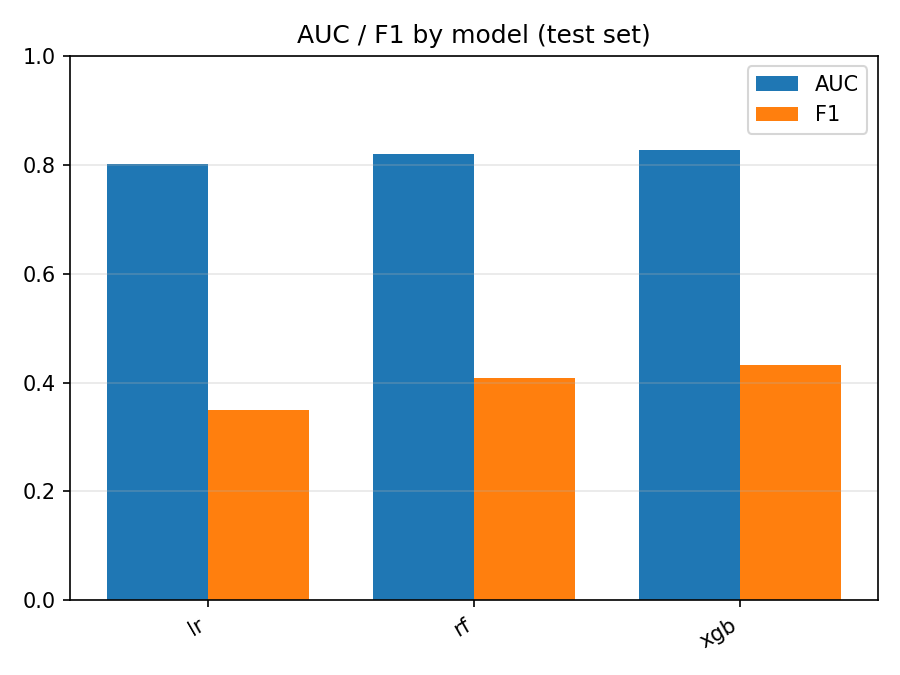
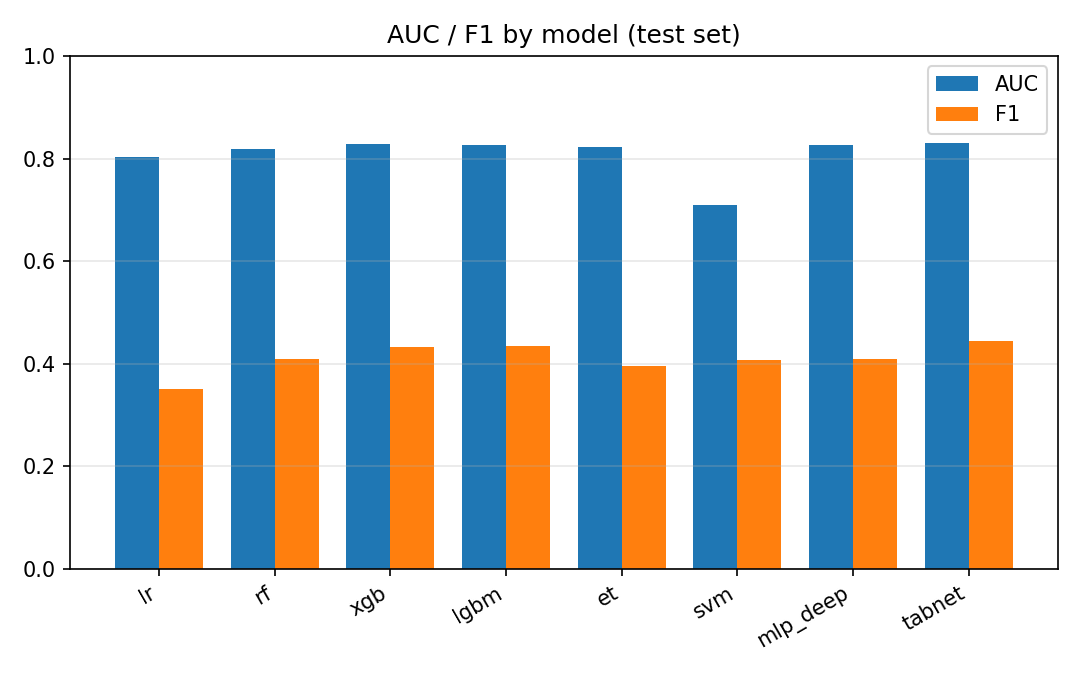
feat(model): 报告与图表覆盖全部 8 个已训模型，兼容旧 __main__ 产物
- from_saved：joblib 回读遇 AttributeError 时把 model.TabNetWithEarlyStop 注入 __main__ 再重试，旧脚本产出的 tabnet_v1.pkl 可正常加载（不再跳过）
- 以默认 12 个模型名单复算，实得 8 个（lr/rf/xgb/lgbm/et/svm/mlp_deep/tabnet），缺 nb/dt/knn/mlp 的 pkl 按缺权重跳过并打印
- model_metrics.md 与 figs/*.png 重生成：AUC 0.71(svm)~0.829(tabnet)，图表含 8 条 ROC 与 8 组 AUC/F1 柱

diff --git a/data_model/pipelines/expert/train.py b/data_model/pipelines/expert/train.py
@@ -20,7 +20,8 @@ import numpy as np
 from . import config, report
 from .data import load_effort, load_splits, xy
 from .metrics import effort_aware_metrics, effort_unaware
-from .model import MODEL_NAMES, SHAP_LINEAR_MODELS, SHAP_TREE_MODELS, build_model
+from .model import (MODEL_NAMES, SHAP_LINEAR_MODELS, SHAP_TREE_MODELS, TabNetWithEarlyStop,
+                    build_model)
 
 
 def parse_args() -> argparse.Namespace:
@@ -60,7 +61,18 @@ def from_saved(args: argparse.Namespace, train, test, X_test: np.ndarray, y_test
             continue
         try:
             model = joblib.load(pkl)
-        except Exception as exc:  # 旧产物类定义在 __main__ 时会 AttributeError
+        except AttributeError:
+            # 旧脚本产物：包装类被 pickle 成 __main__.TabNetWithEarlyStop，注入别名后重试
+            import __main__
+            if not hasattr(__main__, TabNetWithEarlyStop.__name__):
+                setattr(__main__, TabNetWithEarlyStop.__name__, TabNetWithEarlyStop)
+            try:
+                model = joblib.load(pkl)
+                print("[expert] %s 为旧产物（类定义在 __main__），已用兼容别名回读" % pkl.name)
+            except Exception as exc:
+                print("[expert] 无法回读 %s：%s: %s" % (pkl.name, type(exc).__name__, exc))
+                continue
+        except Exception as exc:
             print("[expert] 无法回读 %s：%s: %s" % (pkl.name, type(exc).__name__, exc))
             continue
         proba = model.predict_proba(X_test)[:, 1]

diff --git a/data_model/pipelines/expert/reports/model_metrics.md b/data_model/pipelines/expert/reports/model_metrics.md
@@ -21,6 +21,11 @@
 | `lr_v1`（逻辑回归） | 0.8020 | 0.3497 | 0.5303 | 0.2609 | 0.8605 |
 | `rf_v1`（随机森林） | 0.8190 | 0.4083 | 0.5215 | 0.3355 | 0.8601 |
 | `xgb_v1`（XGBoost） | 0.8281 | 0.4316 | 0.4587 | 0.4075 | 0.8456 |
+| `lgbm_v1`（LightGBM） | 0.8260 | 0.4337 | 0.4510 | 0.4177 | 0.8431 |
+| `et_v1`（极端随机树（Extra Trees）） | 0.8223 | 0.3955 | 0.5212 | 0.3186 | 0.8599 |
+| `svm_v1`（RBF 核支持向量机） | 0.7096 | 0.4078 | 0.5464 | 0.3252 | 0.8641 |
+| `mlp_deep_v1`（多层感知机（3 隐藏层 + 早停）） | 0.8254 | 0.4084 | 0.5116 | 0.3399 | 0.8584 |
+| `tabnet_v1`（TabNet（深度表格）） | 0.8294 | 0.4437 | 0.4617 | 0.4271 | 0.8460 |
 
 ## 二、Effort-aware 指标（检验集，LOC 工作量代理）
 
@@ -34,6 +39,16 @@
 | 对照：按 `risk_score / 工作量` 降序 | `rf_v1` | 0.9342 | **0.9128** | 0.9288 | 0.9928 |
 | **模型排序**（契约三当前口径） | `xgb_v1` | 0.3632 | **-0.2876** | 0.1207 | 0.3418 |
 | 对照：按 `risk_score / 工作量` 降序 | `xgb_v1` | 0.9332 | **0.9106** | 0.9315 | 0.9892 |
+| **模型排序**（契约三当前口径） | `lgbm_v1` | 0.3375 | **-0.3416** | 0.1452 | 0.2686 |
+| 对照：按 `risk_score / 工作量` 降序 | `lgbm_v1` | 0.9328 | **0.9097** | 0.9318 | 0.9873 |
+| **模型排序**（契约三当前口径） | `et_v1` | 0.4539 | **-0.0970** | 0.1742 | 0.5284 |
+| 对照：按 `risk_score / 工作量` 降序 | `et_v1` | 0.9348 | **0.9139** | 0.9288 | 0.9936 |
+| **模型排序**（契约三当前口径） | `svm_v1` | 0.4624 | **-0.0791** | 0.1632 | 0.5235 |
+| 对照：按 `risk_score / 工作量` 降序 | `svm_v1` | 0.9335 | **0.9113** | 0.9238 | 0.9931 |
+| **模型排序**（契约三当前口径） | `mlp_deep_v1` | 0.4063 | **-0.1970** | 0.1579 | 0.3832 |
+| 对照：按 `risk_score / 工作量` 降序 | `mlp_deep_v1` | 0.9330 | **0.9101** | 0.9268 | 0.9890 |
+| **模型排序**（契约三当前口径） | `tabnet_v1` | 0.3846 | **-0.2428** | 0.1618 | 0.3675 |
+| 对照：按 `risk_score / 工作量` 降序 | `tabnet_v1` | 0.9343 | **0.9128** | 0.9238 | 0.9928 |
 | 上界：真实缺陷密度降序 | — | 0.9757 | 1.0000 | 0.9903 | 1.0000 |
 | 基线：随机排序（200 次均值） | — | 0.5000 ± 0.0166 | 0.0000 | — | — |
 
@@ -46,6 +61,11 @@
 | `lr` | — | — | — | 未实测 |
 | `rf` | — | — | — | 未实测 |
 | `xgb` | — | — | — | 未实测 |
+| `lgbm` | — | — | — | 未实测 |
+| `et` | — | — | — | 未实测 |
+| `svm` | — | — | — | 未实测 |
+| `mlp_deep` | — | — | — | 未实测 |
+| `tabnet` | — | — | — | 未实测 |
 
 ## 图表
 
